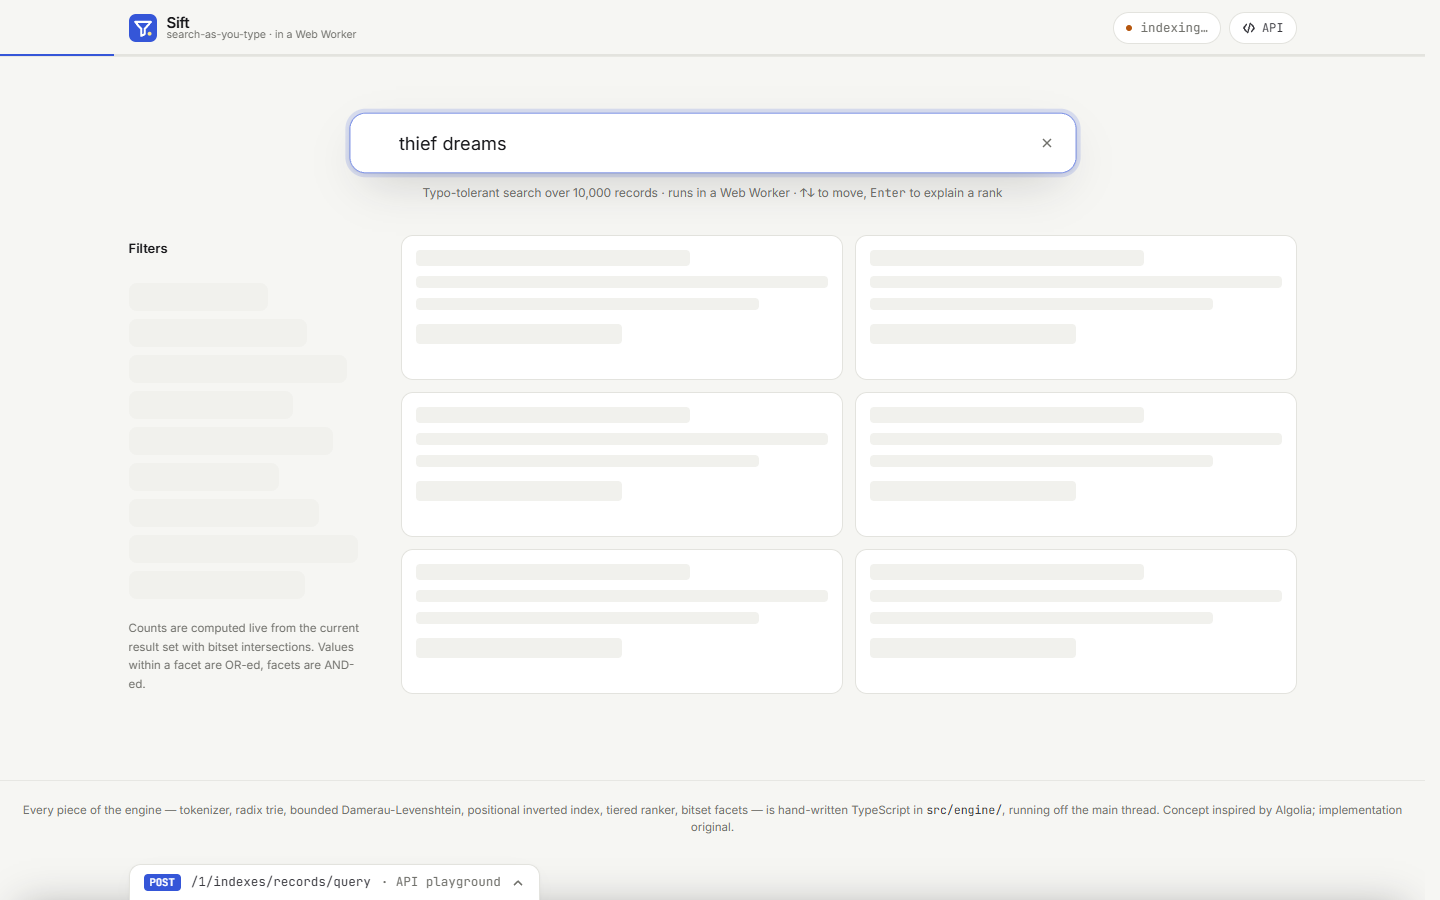
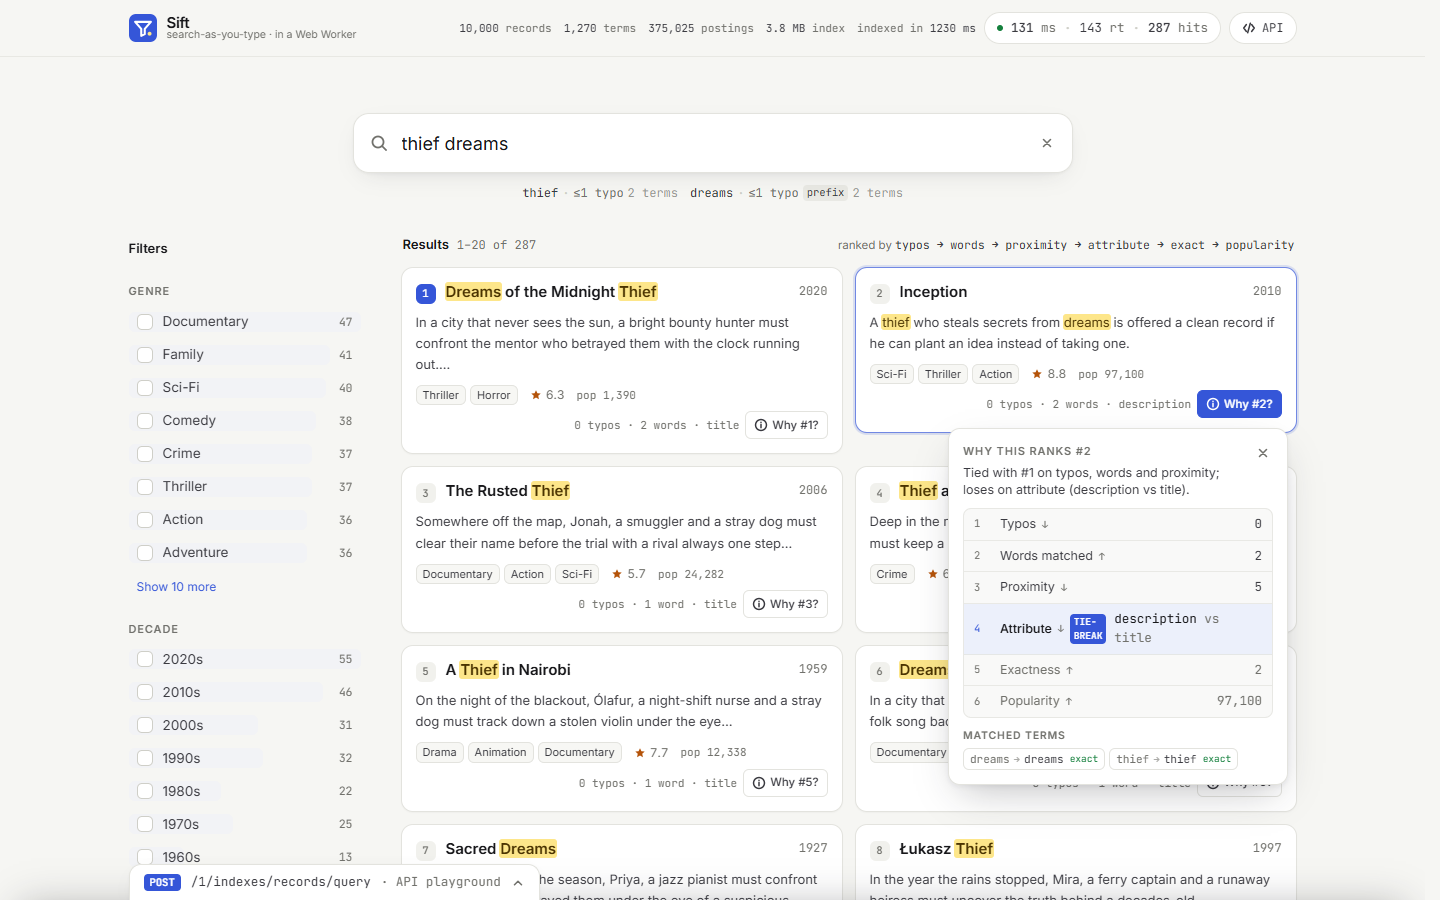
polish: worker JIT warm-up before ready, explainer badge layout

diff --git a/src/components/RankingPopover.tsx b/src/components/RankingPopover.tsx
@@ -110,9 +110,9 @@ export function RankingPopover({ hit, rank, onClose }: { hit: Hit; rank: number;
               <span className="flex items-center gap-1.5">
                 <span className={isBreak ? 'font-medium' : ''}>{LABELS[c]}</span>
                 <span className="font-mono text-[10px] text-muted">{CRITERION_DIRECTION[c] === 'lower' ? '↓' : '↑'}</span>
-                {isBreak && <span className="rounded bg-accent px-1 py-px font-mono text-[9.5px] font-medium text-accent-ink uppercase">tie-break</span>}
+                {isBreak && <span className="rounded bg-accent px-1 py-px font-mono text-[9.5px] font-medium text-accent-ink uppercase whitespace-nowrap">tie-break</span>}
               </span>
-              <span className="font-mono tnum">
+              <span className="text-right font-mono tnum">
                 {c === 'proximity' && info.words < 2 ? 'n/a' : c === 'attribute' && info.attributeName === 'none' ? '—' : formatValue(c, info[c])}
                 {isBreak && tb && <span className="text-muted"> vs {formatValue(c, tb.previous)}</span>}
               </span>

diff --git a/src/worker/search.worker.ts b/src/worker/search.worker.ts
@@ -56,6 +56,7 @@ async function init(url: string): Promise<void> {
     const t2 = performance.now()
     post({ type: 'progress', phase: 'indexing', loadedBytes: 0, totalBytes: records.length })
     index = new SearchIndex(records)
+    warmUp(index)
     post({
       type: 'ready',
       stats: index.stats,
@@ -66,6 +67,13 @@ async function init(url: string): Promise<void> {
     post({ type: 'error', message: err instanceof Error ? err.message : String(err) })
   } finally {
     initializing = false
+  }
+}
+
+/** A few representative queries so the JIT has compiled the hot paths before the first keystroke. */
+function warmUp(idx: SearchIndex): void {
+  for (const query of ['a', 'the', 'matrx', 'blade runer', 'lo']) {
+    idx.search({ query, facets: ['genre', 'decade', 'rating'] })
   }
 }
 
